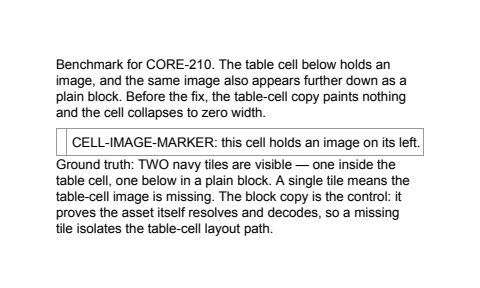
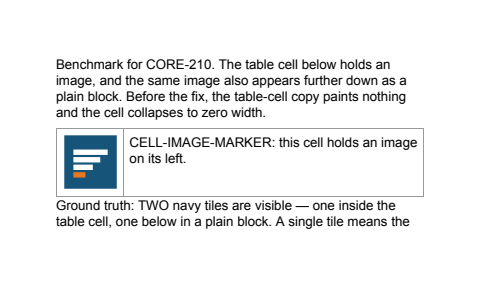
docs(corpus): table-stress 50 pages is spec-correct; record CORE-348 overflow (CORE-244)
CORE-235 added exactly 0.5pt per row on table-stress (A/B vs its parent:
row pitch 14.8/25.6/36.4 -> 15.3/26.1/36.9pt; 47 -> 50 pages). That is
one collapsed cell border per row, which the pre-235 engine omitted;
Chromium also counts it (1-line row 15.5pt). With 2-4 rows per page the
0.5pt cascades into +3 pages. Re-baseline at 50.

The real gap vs Prince is a separate line-breaking defect (CORE-348): a
word wider than the cell disables wrapping for the whole cell, so 20
Description cells overprint the next column. Recorded as a known
limitation in the manifest; drop the stale "separate model unsupported"
limitation (CORE-235 implemented it).

Corpus regenerated at f0030cb; build-demo.sh --validate --guard: all
documents within threshold.

Changed region(s): [[0.0938, 0.4688, 0.875, 0.8125]]

diff --git a/demo/corpus/README.md b/demo/corpus/README.md
@@ -98,7 +98,7 @@ measure both sides at the baseline commit and the candidate commit.
 
 ## Comparison gallery — TypeAnvil vs Prince
 
-Side-by-side page gallery. TypeAnvil renders on the left; Prince on the right. Engines: TypeAnvil `768fde9` · Prince 16.2. Geometry: 5in × 3in pages, 0.5in margins, 96 DPI raster.
+Side-by-side page gallery. TypeAnvil renders on the left; Prince on the right. Engines: TypeAnvil `f0030cb` · Prince 16.2. Geometry: 5in × 3in pages, 0.5in margins, 96 DPI raster.
 
 > This section is REGENERATED by `scripts/build-demo.sh`. The preamble above is hand-maintained; edit it there, not here.
 
@@ -996,13 +996,14 @@ TypeAnvil 50 page(s) · Prince 45 page(s) · **page count mismatch** · overall 
 
 **Known limitations**
 
-- border-collapse: separate + border-spacing unsupported (collapse only)
 - rowspan unsupported (not used)
+- A Description cell whose text contains a word wider than the cell does not wrap at all: the whole cell runs on one line and overprints the next column (20 rows; CORE-348). This, not row height, drives most of the page-count gap vs Prince
 
 **Expected deltas vs Prince**
 
 - Frozen column widths match Prince within ~0.4-6pt (CORE-96); residual from font metrics and Prince's ~7.7pt right-edge table overflow
 - Page-break positions may differ where a row's height differs between engines
+- Collapsed-border rows include one cell-border width each (CORE-235; spec-correct, Chromium agrees: 1-line row 15.3pt vs Chromium 15.5pt). Moved 47 -> 50 pages because only 2-4 rows fit per page (CORE-244)
 - Total row repeats at the bottom of every page (CORE-96, Prince parity)
 
 | TypeAnvil | Diff | Prince |
